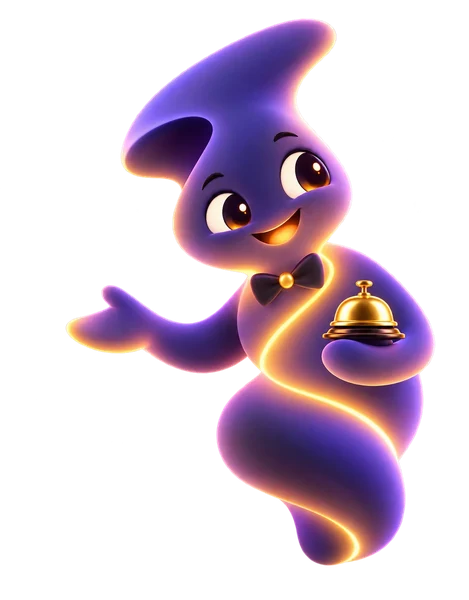
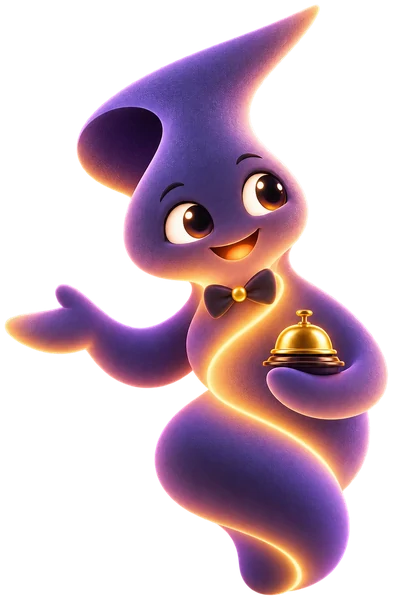
Use the client's second Else concierge render on the contact page
The second upload is a different picture from the first (felt texture,
different hat tip; about a quarter of the pixels differ clearly), so it
replaces it under the same filename. It is narrower and its glow below
the tail is tighter, so the figure box becomes 176x268 and the tail
offset 2px. Near-invisible alpha noise at the canvas edges is cleared
in the export.

diff --git a/app/[locale]/(site)/kontakt/page.module.css b/app/[locale]/(site)/kontakt/page.module.css
@@ -112,17 +112,18 @@
 
 /* Else rests on the Beatrice panel: the negative bottom margin cancels
    the hero's bottom padding plus the band's top padding, overlaps 4px
-   more, and lowers her another 15px, the height of the glow under her
-   tail, so the tail itself meets the panel's edge and the glow spills
-   softly onto it. The 84px top margin is room for the bubble.
+   more, and lowers her another 2px, the height of the glow under her
+   tail, so the tail itself meets the panel's edge. The 84px top margin
+   is room for the bubble; 176px wide, like the bubble's maximum, so the
+   bubble never overhangs her.
    Positioned, so she paints over the panel, whose background is not. */
 .else {
   position: relative;
   flex-shrink: 0;
-  width: 200px;
-  height: 256px;
+  width: 176px;
+  height: 268px;
   margin: 84px 0 0 auto;
-  margin-bottom: calc(-1 * clamp(40px, 5vw, 64px) - clamp(8px, 1vw, 12px) - 4px - 15px);
+  margin-bottom: calc(-1 * clamp(40px, 5vw, 64px) - clamp(8px, 1vw, 12px) - 4px - 2px);
 }
 
 /* A transparent cut-out (public/images/kontakt/else-concierge.webp),

diff --git a/app/[locale]/(site)/kontakt/page.tsx b/app/[locale]/(site)/kontakt/page.tsx
@@ -78,8 +78,8 @@ export default function KontaktPage({
                 <Image
                   src="/images/kontakt/else-concierge.webp"
                   alt={t('elseImageAlt')}
-                  width={200}
-                  height={256}
+                  width={176}
+                  height={268}
                   className={styles.elseImage}
                 />
                 <figcaption className={styles.elseBubble}>{t('elseBubble')}</figcaption>

diff --git a/CLAUDE.md b/CLAUDE.md
@@ -243,11 +243,14 @@ band. Copy in the `kontakt` namespace, page title/description in
   with bow tie and service bell, rests right of the lead with her tail on the
   Beatrice panel's top edge, under a navy speech bubble (`elseBubble`; alt
   `elseImageAlt`). The image is `public/images/kontakt/else-concierge.webp`, a
-  **transparent** cut-out (469×600, trimmed to her outermost glow) that simply
-  fills the 200×256 `.else` box: no crop, no blend mode. The 404 keeps its
-  own `else-sucht.webp`. Below about 700px she wraps under the lead,
+  **transparent** cut-out (393×600) that simply fills the 176×268 `.else`
+  box: no crop, no blend mode. It is the client's second upload, a felt-
+  textured render (a first, smoother version was replaced the same day).
+  Export: trim to the visible glow (alpha > 4) plus 8px, and zero the alpha
+  ≤ 4 noise that otherwise reaches the canvas edges. The 404 keeps its own
+  `else-sucht.webp`. Below about 700px she wraps under the lead,
   right-aligned. Her negative bottom margin is the hero's bottom padding + the
-  band's top padding + 4px + 15px (the glow under her tail, so the tail itself
+  band's top padding + 4px + 2px (the glow under her tail, so the tail itself
   meets the edge); change either padding and change it too. `.else` is
   positioned, which paints her over the panel, whose background is not.
   Neither section may clip overflow.
